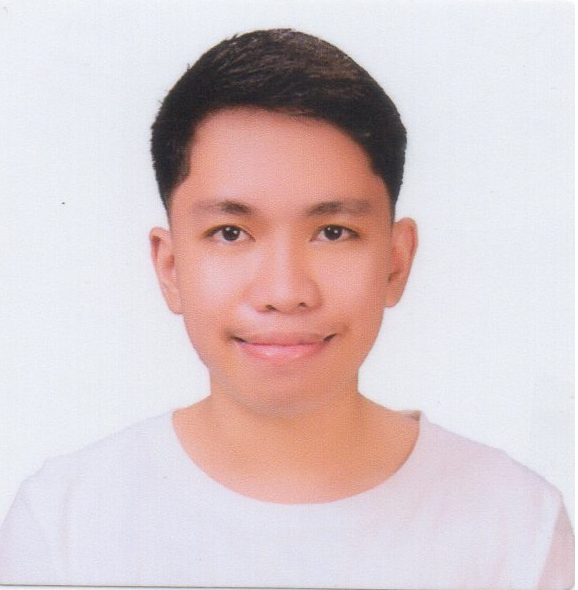
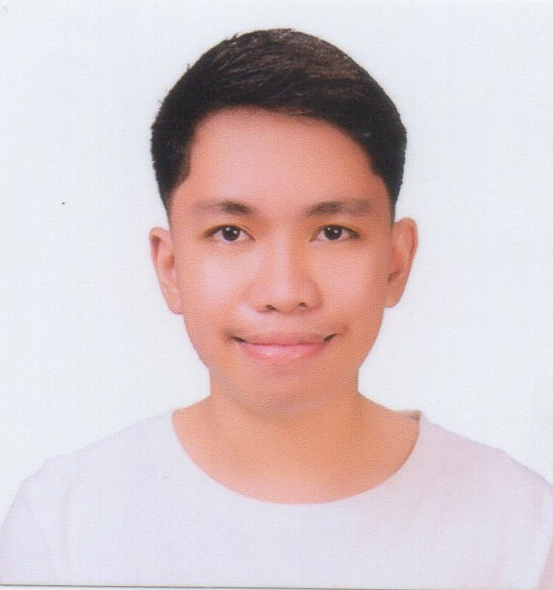
Fix login button behavior: show login modal when not logged in, show user menu modal when logged in (index.html, about.html, services.html, contacts.html)

diff --git a/contacts.html b/contacts.html
@@ -342,30 +342,35 @@
     <script src="login-fixed.js"></script>
     <script src="user-menu.js"></script>
     <script>
-        // Override user menu behavior for contacts - always show user menu
+        // Override login button behavior for contacts
         document.addEventListener('DOMContentLoaded', function() {
-            const userMenuBtn = document.getElementById('userMenuBtn');
-            const userMenuModal = document.getElementById('userMenuModal');
             const loginBtn = document.getElementById('loginBtn');
-            
-            if (userMenuBtn && userMenuModal) {
-                const newBtn = userMenuBtn.cloneNode(true);
-                userMenuBtn.parentNode.replaceChild(newBtn, userMenuBtn);
-                
-                newBtn.addEventListener('click', function(e) {
-                    e.preventDefault();
-                    userMenuModal.classList.add('show');
-                    document.body.style.overflow = 'hidden';
-                });
-            }
+            const userMenuModal = document.getElementById('userMenuModal');
+            const loginModal = document.getElementById('loginModal');
             
             if (loginBtn) {
-                loginBtn.addEventListener('click', function(e) {
+                // Remove existing event listeners by cloning
+                const newLoginBtn = loginBtn.cloneNode(true);
+                loginBtn.parentNode.replaceChild(newLoginBtn, loginBtn);
+                
+                newLoginBtn.addEventListener('click', function(e) {
                     e.preventDefault();
-                    const loginModal = document.getElementById('loginModal');
-                    if (loginModal) {
-                        loginModal.style.display = 'block';
-                        document.body.style.overflow = 'hidden';
+                    
+                    // Check if user is logged in
+                    const currentUser = JSON.parse(localStorage.getItem('shielded_current_user'));
+                    
+                    if (currentUser) {
+                        // User is logged in - show user menu modal
+                        if (userMenuModal) {
+                            userMenuModal.classList.add('show');
+                            document.body.style.overflow = 'hidden';
+                        }
+                    } else {
+                        // User is not logged in - show login modal
+                        if (loginModal) {
+                            loginModal.style.display = 'block';
+                            document.body.style.overflow = 'hidden';
+                        }
                     }
                 });
             }

diff --git a/services.html b/services.html
@@ -304,30 +304,35 @@
     <script src="login-fixed.js"></script>
     <script src="user-menu.js"></script>
     <script>
-        // Override user menu behavior for services - always show user menu
+        // Override login button behavior for services
         document.addEventListener('DOMContentLoaded', function() {
-            const userMenuBtn = document.getElementById('userMenuBtn');
-            const userMenuModal = document.getElementById('userMenuModal');
             const loginBtn = document.getElementById('loginBtn');
-            
-            if (userMenuBtn && userMenuModal) {
-                const newBtn = userMenuBtn.cloneNode(true);
-                userMenuBtn.parentNode.replaceChild(newBtn, userMenuBtn);
-                
-                newBtn.addEventListener('click', function(e) {
-                    e.preventDefault();
-                    userMenuModal.classList.add('show');
-                    document.body.style.overflow = 'hidden';
-                });
-            }
+            const userMenuModal = document.getElementById('userMenuModal');
+            const loginModal = document.getElementById('loginModal');
             
             if (loginBtn) {
-                loginBtn.addEventListener('click', function(e) {
+                // Remove existing event listeners by cloning
+                const newLoginBtn = loginBtn.cloneNode(true);
+                loginBtn.parentNode.replaceChild(newLoginBtn, loginBtn);
+                
+                newLoginBtn.addEventListener('click', function(e) {
                     e.preventDefault();
-                    const loginModal = document.getElementById('loginModal');
-                    if (loginModal) {
-                        loginModal.style.display = 'block';
-                        document.body.style.overflow = 'hidden';
+                    
+                    // Check if user is logged in
+                    const currentUser = JSON.parse(localStorage.getItem('shielded_current_user'));
+                    
+                    if (currentUser) {
+                        // User is logged in - show user menu modal
+                        if (userMenuModal) {
+                            userMenuModal.classList.add('show');
+                            document.body.style.overflow = 'hidden';
+                        }
+                    } else {
+                        // User is not logged in - show login modal
+                        if (loginModal) {
+                            loginModal.style.display = 'block';
+                            document.body.style.overflow = 'hidden';
+                        }
                     }
                 });
             }

diff --git a/about.html b/about.html
@@ -338,30 +338,35 @@
 <script src="login-fixed.js"></script>
 <script src="user-menu.js"></script>
     <script>
-        // Override user menu behavior for about - always show user menu
+        // Override login button behavior for about
         document.addEventListener('DOMContentLoaded', function() {
-            const userMenuBtn = document.getElementById('userMenuBtn');
-            const userMenuModal = document.getElementById('userMenuModal');
             const loginBtn = document.getElementById('loginBtn');
-            
-            if (userMenuBtn && userMenuModal) {
-                const newBtn = userMenuBtn.cloneNode(true);
-                userMenuBtn.parentNode.replaceChild(newBtn, userMenuBtn);
-                
-                newBtn.addEventListener('click', function(e) {
-                    e.preventDefault();
-                    userMenuModal.classList.add('show');
-                    document.body.style.overflow = 'hidden';
-                });
-            }
+            const userMenuModal = document.getElementById('userMenuModal');
+            const loginModal = document.getElementById('loginModal');
             
             if (loginBtn) {
-                loginBtn.addEventListener('click', function(e) {
+                // Remove existing event listeners by cloning
+                const newLoginBtn = loginBtn.cloneNode(true);
+                loginBtn.parentNode.replaceChild(newLoginBtn, loginBtn);
+                
+                newLoginBtn.addEventListener('click', function(e) {
                     e.preventDefault();
-                    const loginModal = document.getElementById('loginModal');
-                    if (loginModal) {
-                        loginModal.style.display = 'block';
-                        document.body.style.overflow = 'hidden';
+                    
+                    // Check if user is logged in
+                    const currentUser = JSON.parse(localStorage.getItem('shielded_current_user'));
+                    
+                    if (currentUser) {
+                        // User is logged in - show user menu modal
+                        if (userMenuModal) {
+                            userMenuModal.classList.add('show');
+                            document.body.style.overflow = 'hidden';
+                        }
+                    } else {
+                        // User is not logged in - show login modal
+                        if (loginModal) {
+                            loginModal.style.display = 'block';
+                            document.body.style.overflow = 'hidden';
+                        }
                     }
                 });
             }

diff --git a/index.html b/index.html
@@ -257,20 +257,36 @@
             }
         });
 
-        // Override user menu behavior for index - always show user menu
+        // Override login button behavior for index
         document.addEventListener('DOMContentLoaded', function() {
-            const userMenuBtn = document.getElementById('userMenuBtn');
+            const loginBtn = document.getElementById('loginBtn');
             const userMenuModal = document.getElementById('userMenuModal');
+            const loginModal = document.getElementById('loginModal');
             
-            if (userMenuBtn && userMenuModal) {
+            if (loginBtn) {
                 // Remove existing event listeners by cloning
-                const newBtn = userMenuBtn.cloneNode(true);
-                userMenuBtn.parentNode.replaceChild(newBtn, userMenuBtn);
+                const newLoginBtn = loginBtn.cloneNode(true);
+                loginBtn.parentNode.replaceChild(newLoginBtn, loginBtn);
                 
-                newBtn.addEventListener('click', function(e) {
+                newLoginBtn.addEventListener('click', function(e) {
                     e.preventDefault();
-                    userMenuModal.classList.add('show');
-                    document.body.style.overflow = 'hidden';
+                    
+                    // Check if user is logged in
+                    const currentUser = JSON.parse(localStorage.getItem('shielded_current_user'));
+                    
+                    if (currentUser) {
+                        // User is logged in - show user menu modal
+                        if (userMenuModal) {
+                            userMenuModal.classList.add('show');
+                            document.body.style.overflow = 'hidden';
+                        }
+                    } else {
+                        // User is not logged in - show login modal
+                        if (loginModal) {
+                            loginModal.style.display = 'block';
+                            document.body.style.overflow = 'hidden';
+                        }
+                    }
                 });
             }
         });
